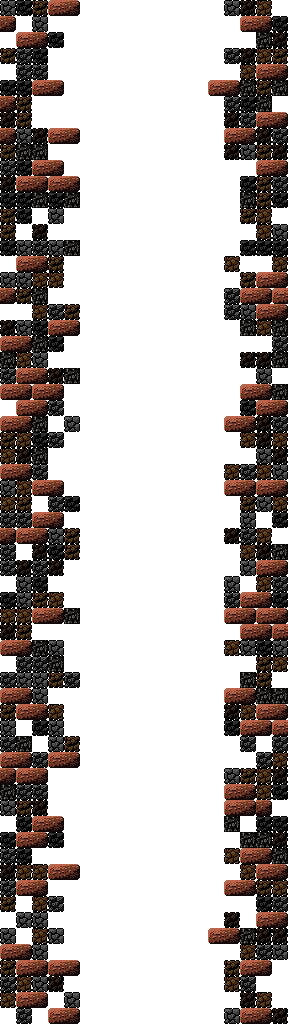
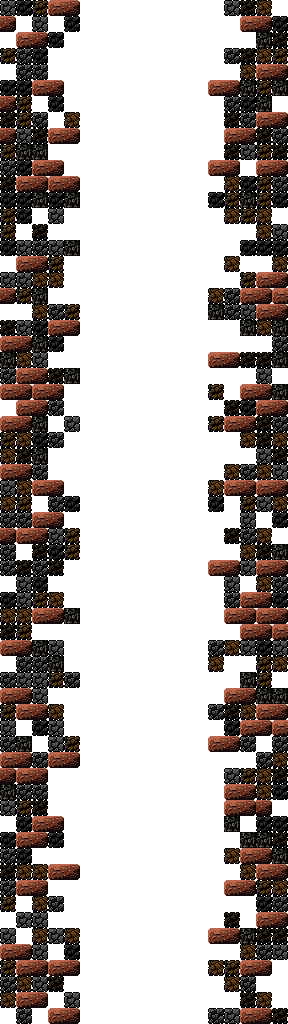
fixed issues with backdrop repeating

diff --git a/Breakout/Utility/MainMenu.cs b/Breakout/Utility/MainMenu.cs
@@ -157,8 +157,8 @@ namespace Breakout.Utility
             // backdrop behind the Menu
             backdrop            = new GameObject(0, 0, Properties.Resources.levelBackdrop, true);
             forground           = new GameObject(-16, 0, Properties.Resources.forground, true);
-            backdropManager     = new BackdropManager(backdrop, 1f, Direction.UP);
-            forgroundManager    = new BackdropManager(forground, 1f, Direction.UP);
+            backdropManager     = new BackdropManager(backdrop, 0.5f, Direction.UP);
+            forgroundManager    = new BackdropManager(forground, 1.0f, Direction.UP);
 
             MenuObjects = new List<GameObject>
             {

diff --git a/Breakout/Render/BackdropManager.cs b/Breakout/Render/BackdropManager.cs
@@ -74,7 +74,7 @@ namespace Breakout.Render
                 {
                     backdropA.Y = backdropB.Y + backdropB.Height;
                 }
-                else if (backdropB.Y < backdropB.Y && backdropB.Y + backdropA.Height < 0)
+                else if (backdropB.Y < backdropA.Y && backdropB.Y + backdropA.Height < 0)
                 {
                     backdropB.Y = backdropA.Y + backdropB.Height;
                 }
